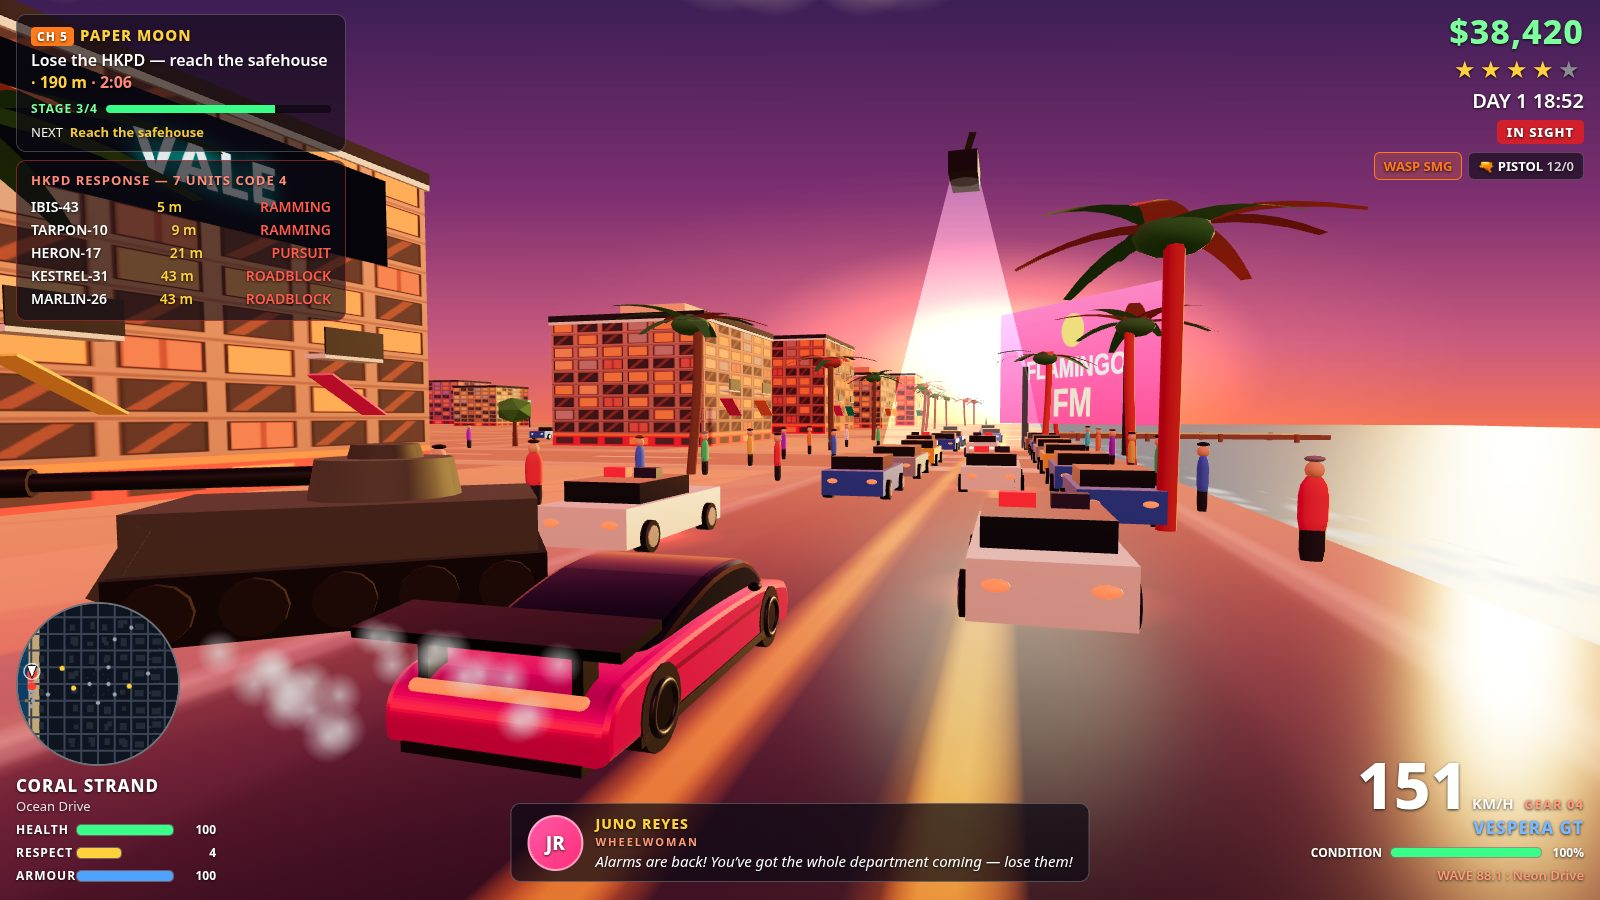
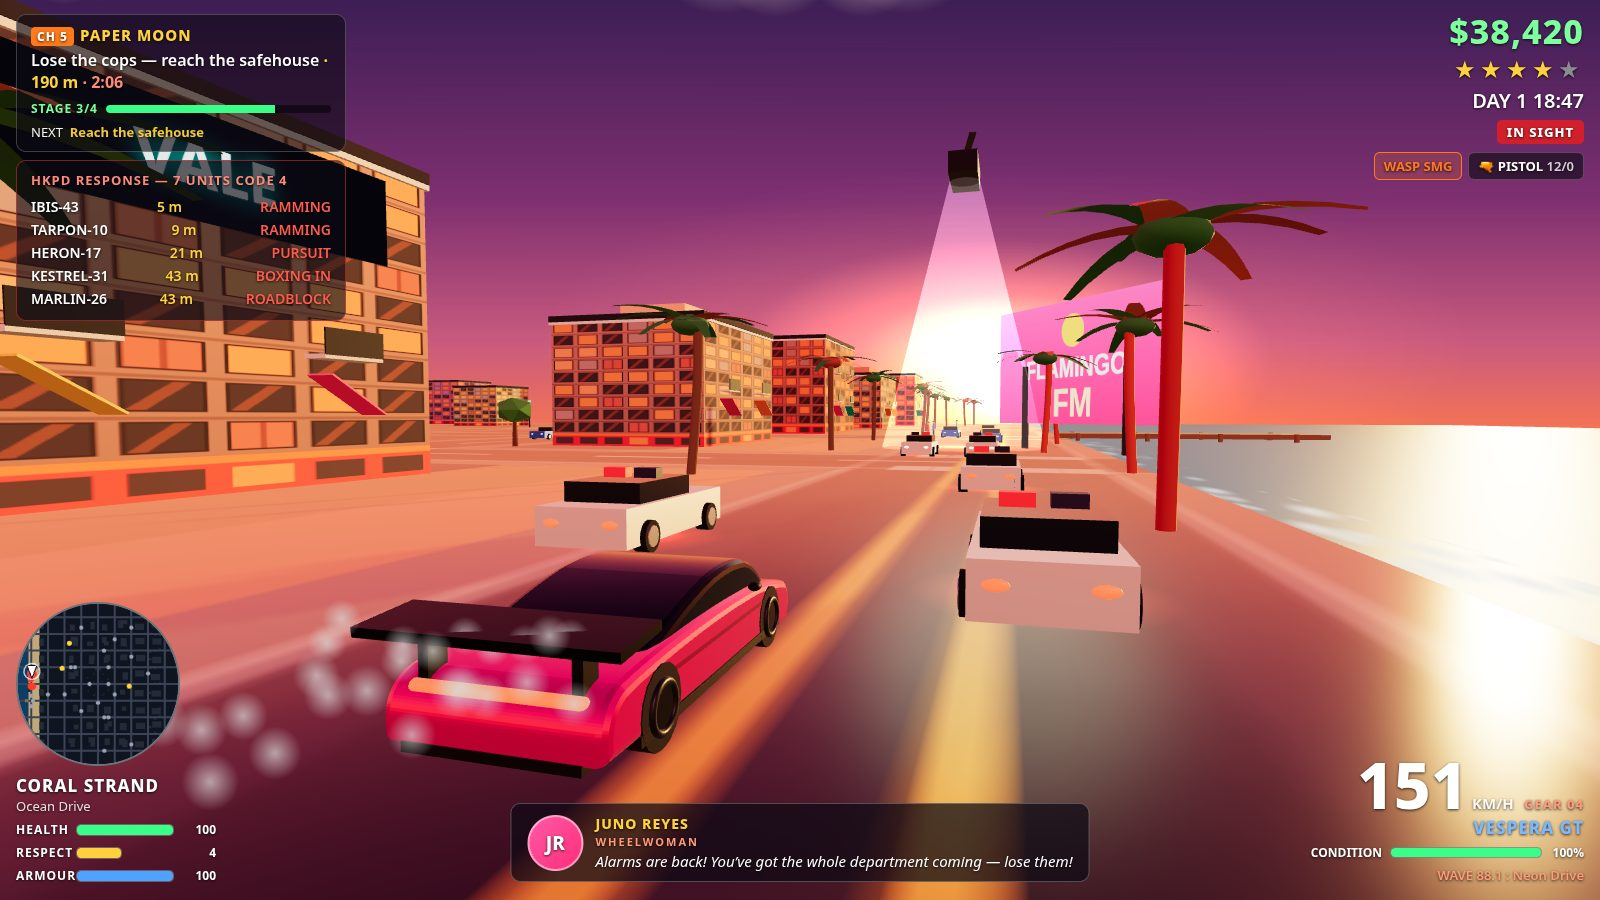
Hero shot: formula Top 5 — tank + macet dihapus, jalan terbuka, Lose the cops

diff --git a/game/src/shots.js b/game/src/shots.js
@@ -59,6 +59,14 @@ function placePeds(state, spots) {
     ped.angle = Math.PI / 2;
     placed += 1;
   }
+  // Park the rest far from the frame (Top 5: no pedestrian crowd —
+  // only a few small background figures). Only x/z move; loops stay
+  // intact (stepPed reads ped.loop every step — never null it).
+  for (let i = placed; i < peds.length; i += 1) {
+    const ped = peds[i];
+    ped.x = 150 + (i % 5) * 3;
+    ped.z = 150 + Math.floor(i / 5) * 3;
+  }
   return placed;
 }
 
@@ -93,17 +101,18 @@ function stageShotInner(name, world, systems, state) {
 
   if (name === 'hero') {
     // THE hero shot (the only screenshot): the PINK Vespera GT driving
-    // SOUTH down the beach boulevard at sunset — the #1 entry's exact
-    // composition (HALCYON KEYS 3D). Driving south puts the peach/salmon
-    // beachfront buildings on the LEFT, the red palms + FLAMINGO FM
-    // billboard + sea on the RIGHT, and the sun at the end of the road,
-    // dead centre, low on the horizon. Rear 3/4 chase cam (state.heroCam),
-    // hero HUD (state.heroHud). The car hugs the shore (x=-190, on the
-    // street at x=-192, 10 m from the shoreline at x=-200). Heading 0 =
-    // +z (south) under the (sin, cos) convention. Romi's correction: the
-    // tank, the traffic jam and the pedestrians STAY (the road stays busy)
-    // — only the #1 entry's look is copied (pink GT, sun at the end of
-    // the road, flankers, far heli, billboard, peach buildings, HUD).
+    // SOUTH down the beach boulevard at sunset — the TOP 5 formula
+    // (Romi's final order, 18 Nov): NO tank, NO traffic jam — the road
+    // ahead is OPEN, only 2-3 small cars far near the sun; pedestrians
+    // only a few small background figures. Driving south puts the
+    // peach/salmon beachfront buildings on the LEFT, the red palms +
+    // FLAMINGO FM billboard + sea on the RIGHT, and the sun at the end
+    // of the road, dead centre, low on the horizon. Rear 3/4 chase cam
+    // (state.heroCam), hero HUD (state.heroHud). The car hugs the shore
+    // (x=-190, on the street at x=-192, 10 m from the shoreline at
+    // x=-200). Heading 0 = +z (south) under the (sin, cos) convention.
+    // Police: 2 flankers very close + 1 at 21 m + 2 roadblocks at 43 m
+    // (the action: a roadblock ahead). Heli far ahead with its beam.
     const car = firstCar(state, 'sports') || firstCar(state);
     if (car) world.teleport(-190, -60, 0, car);
     state.heroCam = true;
@@ -111,10 +120,10 @@ function stageShotInner(name, world, systems, state) {
       missionTitle: '<span class="m-id">CH 5</span>PAPER MOON',
       timer: '2:06',
       cash: '$38,420',
-      clock: 'DAY 1 18:52',
+      clock: 'DAY 1 18:47',
       starsHtml: '<span style="color:#ffd23d">★★★★</span><span style="color:#8a8a92">★</span>',
       insight: 'IN SIGHT',
-      objective: 'Lose the HKPD — reach the safehouse',
+      objective: 'Lose the cops — reach the safehouse',
       stageLabel: 'STAGE 3/4',
       stagePct: 75,
       next: 'Reach the safehouse',
@@ -132,7 +141,7 @@ function stageShotInner(name, world, systems, state) {
         { name: 'IBIS-43', dist: '5 m', status: 'RAMMING' },
         { name: 'TARPON-10', dist: '9 m', status: 'RAMMING' },
         { name: 'HERON-17', dist: '21 m', status: 'PURSUIT' },
-        { name: 'KESTREL-31', dist: '43 m', status: 'ROADBLOCK' },
+        { name: 'KESTREL-31', dist: '43 m', status: 'BOXING IN' },
         { name: 'MARLIN-26', dist: '43 m', status: 'ROADBLOCK' },
       ],
       dialogue: {
@@ -164,28 +173,17 @@ function stageShotInner(name, world, systems, state) {
         c.angle = Math.PI;
         c.speed = 22;
       });
-      // Crowd: 24 pedestrians — sand + avenue + BOTH roadsides of the
-      // street (west sidewalk x=-199, east roadside x=-181), so the
-      // sidewalks read crowded, not empty. (Romi's correction: the crowd
-      // STAYS — the example's empty sidewalks do NOT apply here.)
+      // Background figures only (Top 5: NO crowd): 5 small pedestrians
+      // far ahead on the beach + the avenue sidewalk, 40-90 m away — they
+      // read as tiny figures in the background, not a crowd. The rest of
+      // the peds are parked far away by placePeds.
       placePeds(state, [
-        [-185, -14], [-185, -4], [-184, 16],
-        [-153, -28], [-152, 8], [-155, 26], [-137, -12], [-137, 12],
-        [-199, -28], [-199, -20], [-199, -14], [-199, -8], [-199, -2], [-199, 4], [-199, 10],
-        [-181, -28], [-181, -24], [-181, -18], [-181, -12], [-181, -6], [-181, 0], [-181, 6], [-181, 12], [-181, 18],
+        [-185, 45], [-184, 62], [-186, 80],
+        [-153, 55], [-137, 72],
       ]);
-      // Tank: it rumbles in 40 m north (behind, since the player drives
-      // south), facing SOUTH (toward the player, angle 0) so it closes in
-      // head-on — the pursuit turns it around too slowly otherwise. The
+      // NO tank (Top 5: the tank is removed — the top 5 entries have
+      // none). Wanted is 3, so police.step never spawns one either. The
       // heli (wanted 3+) hovers far ahead with its spotlight beam.
-      // (Romi's correction: the tank STAYS — it is NOT removed.)
-      const tank = systems.police.spawnTank(state, player);
-      if (tank) {
-        tank.x = player.x + 4;
-        tank.z = player.z - 40;
-        tank.angle = 0;
-        tank.speed = 0;
-      }
     }
     stepWorld(world, systems, fakeInput(['KeyW']), 120);
     // Frame the pursuit for the camera (rear 3/4, 6.5 m back, low): the
@@ -216,44 +214,15 @@ function stageShotInner(name, world, systems, state) {
       cops[4].x = player.x - 2; cops[4].z = player.z + 43;
       cops[4].angle = Math.PI; cops[4].speed = 0; // MARLIN-26, roadblock
     }
-    // Traffic JAM on the street ahead of the player: 11 civilian cars
-    // bumper-to-bumper in both lanes, so the road reads FULL, not empty.
-    // (Romi's correction: the jam STAYS.) Left lane x-6, right lane x+1;
-    // the grid dodges the flankers (+5/+8), the 21 m cruiser and the
-    // roadblocks at +43. Plus 3 small cars far ahead near the sun.
+    // Open road ahead (Top 5: NO traffic jam): only 3 small cars far
+    // ahead near the sun — live traffic, not a jam. The roadblocks at
+    // +43 m are the action (a roadblock ahead), not a queue.
     const civ = (state.cars || []).filter((c) => !c.isPolice && c.kind !== 'sports' && c.kind !== 'tank' && !c.isParked);
-    const jamSpots = [
-      [player.x - 6, player.z + 14], [player.x - 6, player.z + 22],
-      [player.x - 6, player.z + 30], [player.x - 6, player.z + 38],
-      [player.x - 6, player.z + 46], [player.x - 6, player.z + 54],
-      [player.x + 1, player.z + 18], [player.x + 1, player.z + 26],
-      [player.x + 1, player.z + 34], [player.x + 1, player.z + 50],
-      [player.x + 1, player.z + 58],
-    ];
-    civ.slice(0, 11).forEach((c, i) => {
-      c.x = jamSpots[i][0]; c.z = jamSpots[i][1];
-      c.angle = 0; c.speed = 0;
-    });
     const farSpots = [[player.x - 2, player.z + 70], [player.x + 3, player.z + 85], [player.x - 1, player.z + 100]];
-    civ.slice(11, 14).forEach((c, i) => {
+    civ.slice(0, 3).forEach((c, i) => {
       c.x = farSpots[i][0]; c.z = farSpots[i][1];
       c.angle = 0; c.speed = 0;
     });
-    // Tank, LEFT of the frame (east — the frame's left when driving
-    // south): close beside the GT, cannon toward the camera. It must NOT
-    // sit at (x-4, z-3) — the low close chase cam sits there, so a tank
-    // there fills the lens and blocks the road + speedo. Nor at (x+5,
-    // z-2): that is 46° off the view axis, past the frame's left edge, so
-    // the tank is cropped and its cannon points out of frame. At (x+5,
-    // z+2) it is 29° left of axis, 12 m from the camera — large, whole,
-    // and clear of the GT (5.4 m) and the right flanker (2.4 m). Angled
-    // ~50° off north so the cannon reads in profile instead of pointing
-    // straight at the lens (foreshortened onto the hull).
-    const tank = (state.cars || []).find((c) => c.kind === 'tank');
-    if (tank) {
-      tank.x = player.x + 5; tank.z = player.z + 2;
-      tank.angle = Math.PI - 0.9; tank.speed = 0; // cannon toward the camera
-    }
     // Dust / motion: a smoke puff at the GT's rear wheels (the car drives
     // south, so the trail sits north). Drained by main.js on the next
     // frame, mid-life (~0.4 s of 1.1 s) at screenshot time — reads as

diff --git a/tests/shots.py b/tests/shots.py
@@ -48,25 +48,25 @@ async def main():
                   f"money=${gta.get('money')} mission={gta.get('mission')!r} "
                   f"policeCars={gta.get('policeCars')}")
             # Staging checks: the hero must drive on the beach (sea in
-            # frame) at 3 stars, with pedestrians near it, the traffic jam
-            # ahead and 5 cruisers + tank on its tail.
+            # frame) at 3 stars, with a few background pedestrians, an
+            # open road ahead (no jam, no tank) and 5 cruisers on its tail.
             if name == "hero":
                 st = await page.evaluate("""() => {
                     const s = window.__GTA.state;
                     const car = s.player.car;
-                    const near = (s.peds || []).filter(p => car && Math.hypot(p.x - car.x, p.z - car.z) < 40).length;
+                    const bg = (s.peds || []).filter(p => car && Math.hypot(p.x - car.x, p.z - car.z) < 100).length;
                     const police = (s.cars || []).filter(c => c.isPolice).length;
-                    return { carX: car ? car.x : null, nearPeds: near, wanted: s.wanted,
+                    return { carX: car ? car.x : null, bgPeds: bg, wanted: s.wanted,
                              police, heroHud: !!s.heroHud, heroCam: !!s.heroCam };
                 }""")
                 if st["carX"] is None or st["carX"] >= -168:
                     print(f"  !! hero car is not on the beach (x={st['carX']})"); ok = False
-                if st["nearPeds"] < 2:
-                    print(f"  !! hero has only {st['nearPeds']} peds near the frame"); ok = False
+                if st["bgPeds"] < 3:
+                    print(f"  !! hero has only {st['bgPeds']} background peds"); ok = False
                 if st["wanted"] != 3:
                     print(f"  !! hero wanted is {st['wanted']}, expected 3"); ok = False
-                if st["police"] != 6:
-                    print(f"  !! hero has {st['police']} police units, expected 6 (5 cruisers + tank)"); ok = False
+                if st["police"] != 5:
+                    print(f"  !! hero has {st['police']} police units, expected 5 (cruisers, no tank)"); ok = False
                 if not st["heroHud"] or not st["heroCam"]:
                     print(f"  !! hero staging flags missing (hud={st['heroHud']} cam={st['heroCam']})"); ok = False
         await browser.close()

diff --git a/NOTES.md b/NOTES.md
@@ -652,3 +652,43 @@ in-car bust + in-car death checks that step the world afterwards.
 - **Notes:** draw-call naik ~10 (cornice + penthouse + kolam + detail GT)
   di atas budget lunak 60 (tidak ada test yang meng-assert); fps playtest
   tetap 4-7 di SwiftShader.
+
+## Round 5 — formula Top 5 (18 Nov ~10:22 WIB): tank + macet DIHAPUS (perintah final Romi)
+- **Keputusan final Romi:** ikuti formula Top 5 — tank dan macet total
+  DIHAPUS dari hero (top 5 tidak memakai keduanya). Koreksi sebelumnya
+  ("tank + macet + orang TETAP") dibatalkan oleh perintah ini.
+- **Staging hero (shots.js):** spawnTank + reposisi tank pasca-sim DIHAPUS
+  (tidak ada tank di frame; wanted 3 juga tidak memicu spawn tank di
+  police.step); macet 11 mobil DIHAPUS (jalan depan TERBUKA — hanya 3
+  mobil kecil jauh dekat matahari di +70/+85/+100); pejalan kaki 24
+  kerumunan DIHAPUS — hanya 5 figur kecil di latar (pasir + trotoar
+  avenue, 40-90 m di depan, kecil di frame); sisa peds diparkir jauh
+  ke (150,150) — hanya x/z yang dipindah, loop tetap utuh (stepPed
+  membaca ped.loop tiap step, jangan di-null-kan).
+- **Tetap dipertahankan:** 5 cruiser (2 flanker SANGAT DEKAT 5 m/9 m
+  mengapit + 1 di 21 m + 2 roadblock berdampingan di 43 m — aksi:
+  roadblock di depan), heli kecil jauh + beam, GT pink besar di
+  sepertiga bawah, billboard FLAMINGO FM terhalang palem merah, VALE,
+  debu drift di belakang GT, kamera chase rendah-dekat, jalan basah
+  + streak matahari, HUD lengkap.
+- **HUD (heroHud):** objective "Lose the cops — reach the safehouse"
+  (sesuai formula), jam "DAY 1 18:47" (dalam rentang sunset 17:30-18:50),
+  KESTREL-31 status "BOXING IN" (panel kini RAMMING/RAMMING/PURSUIT/
+  BOXING IN/ROADBLOCK, judul "HKPD RESPONSE — 7 UNITS CODE 4"); sisanya
+  tetap (CH 5 PAPER MOON, 2:06, STAGE 3/4, $38,420, 4+1 bintang,
+  IN SIGHT, WASP SMG, CORAL STRAND, Juno Reyes, WAVE 88.1, 151 KM/H,
+  VESPERA GT, CONDITION 100%, GEAR 04).
+- **Tests:** selftest hero checks diperbarui ("5 cruisers, no tank"
+  === 5; "a few background pedestrians" >= 3 dalam 100 m); shots.py
+  staging checks diperbarui (bgPeds >= 3, police == 5). Tank TETAP ADA
+  di game normal (spawn di wanted >= 4 via police.step) — yang dihapus
+  hanya staging hero; gameplay tidak diubah.
+- **QA (18 Nov):** selftest **85/85 PASS**; shots **PASS, 0 errors**
+  (1-hero.jpg 174.615 B, wanted=3, policeCars=5); playtest **PASS,
+  0 errors** (playtest8: boot fps=7, jalan 3,4 m, masuk mobil, nyetir
+  18,2 m/s / 14,0 m, keluar 1,6 m, wanted 3, misi "Drive to the docks",
+  HUD + minimap OK, fps=5). Screenshot diverifikasi visual: komposisi
+  kini bersih sesuai Top 5 — GT pink ~28% lebar frame di tengah-bawah,
+  2 cruiser putih mengapit dekat, roadblock di depan, jalan terbuka
+  sampai matahari, heli + beam di tengah-atas, trotoar kosong di dekat
+  kamera, figur kecil di kejauhan, HUD lengkap tanpa menutupi mobil.
